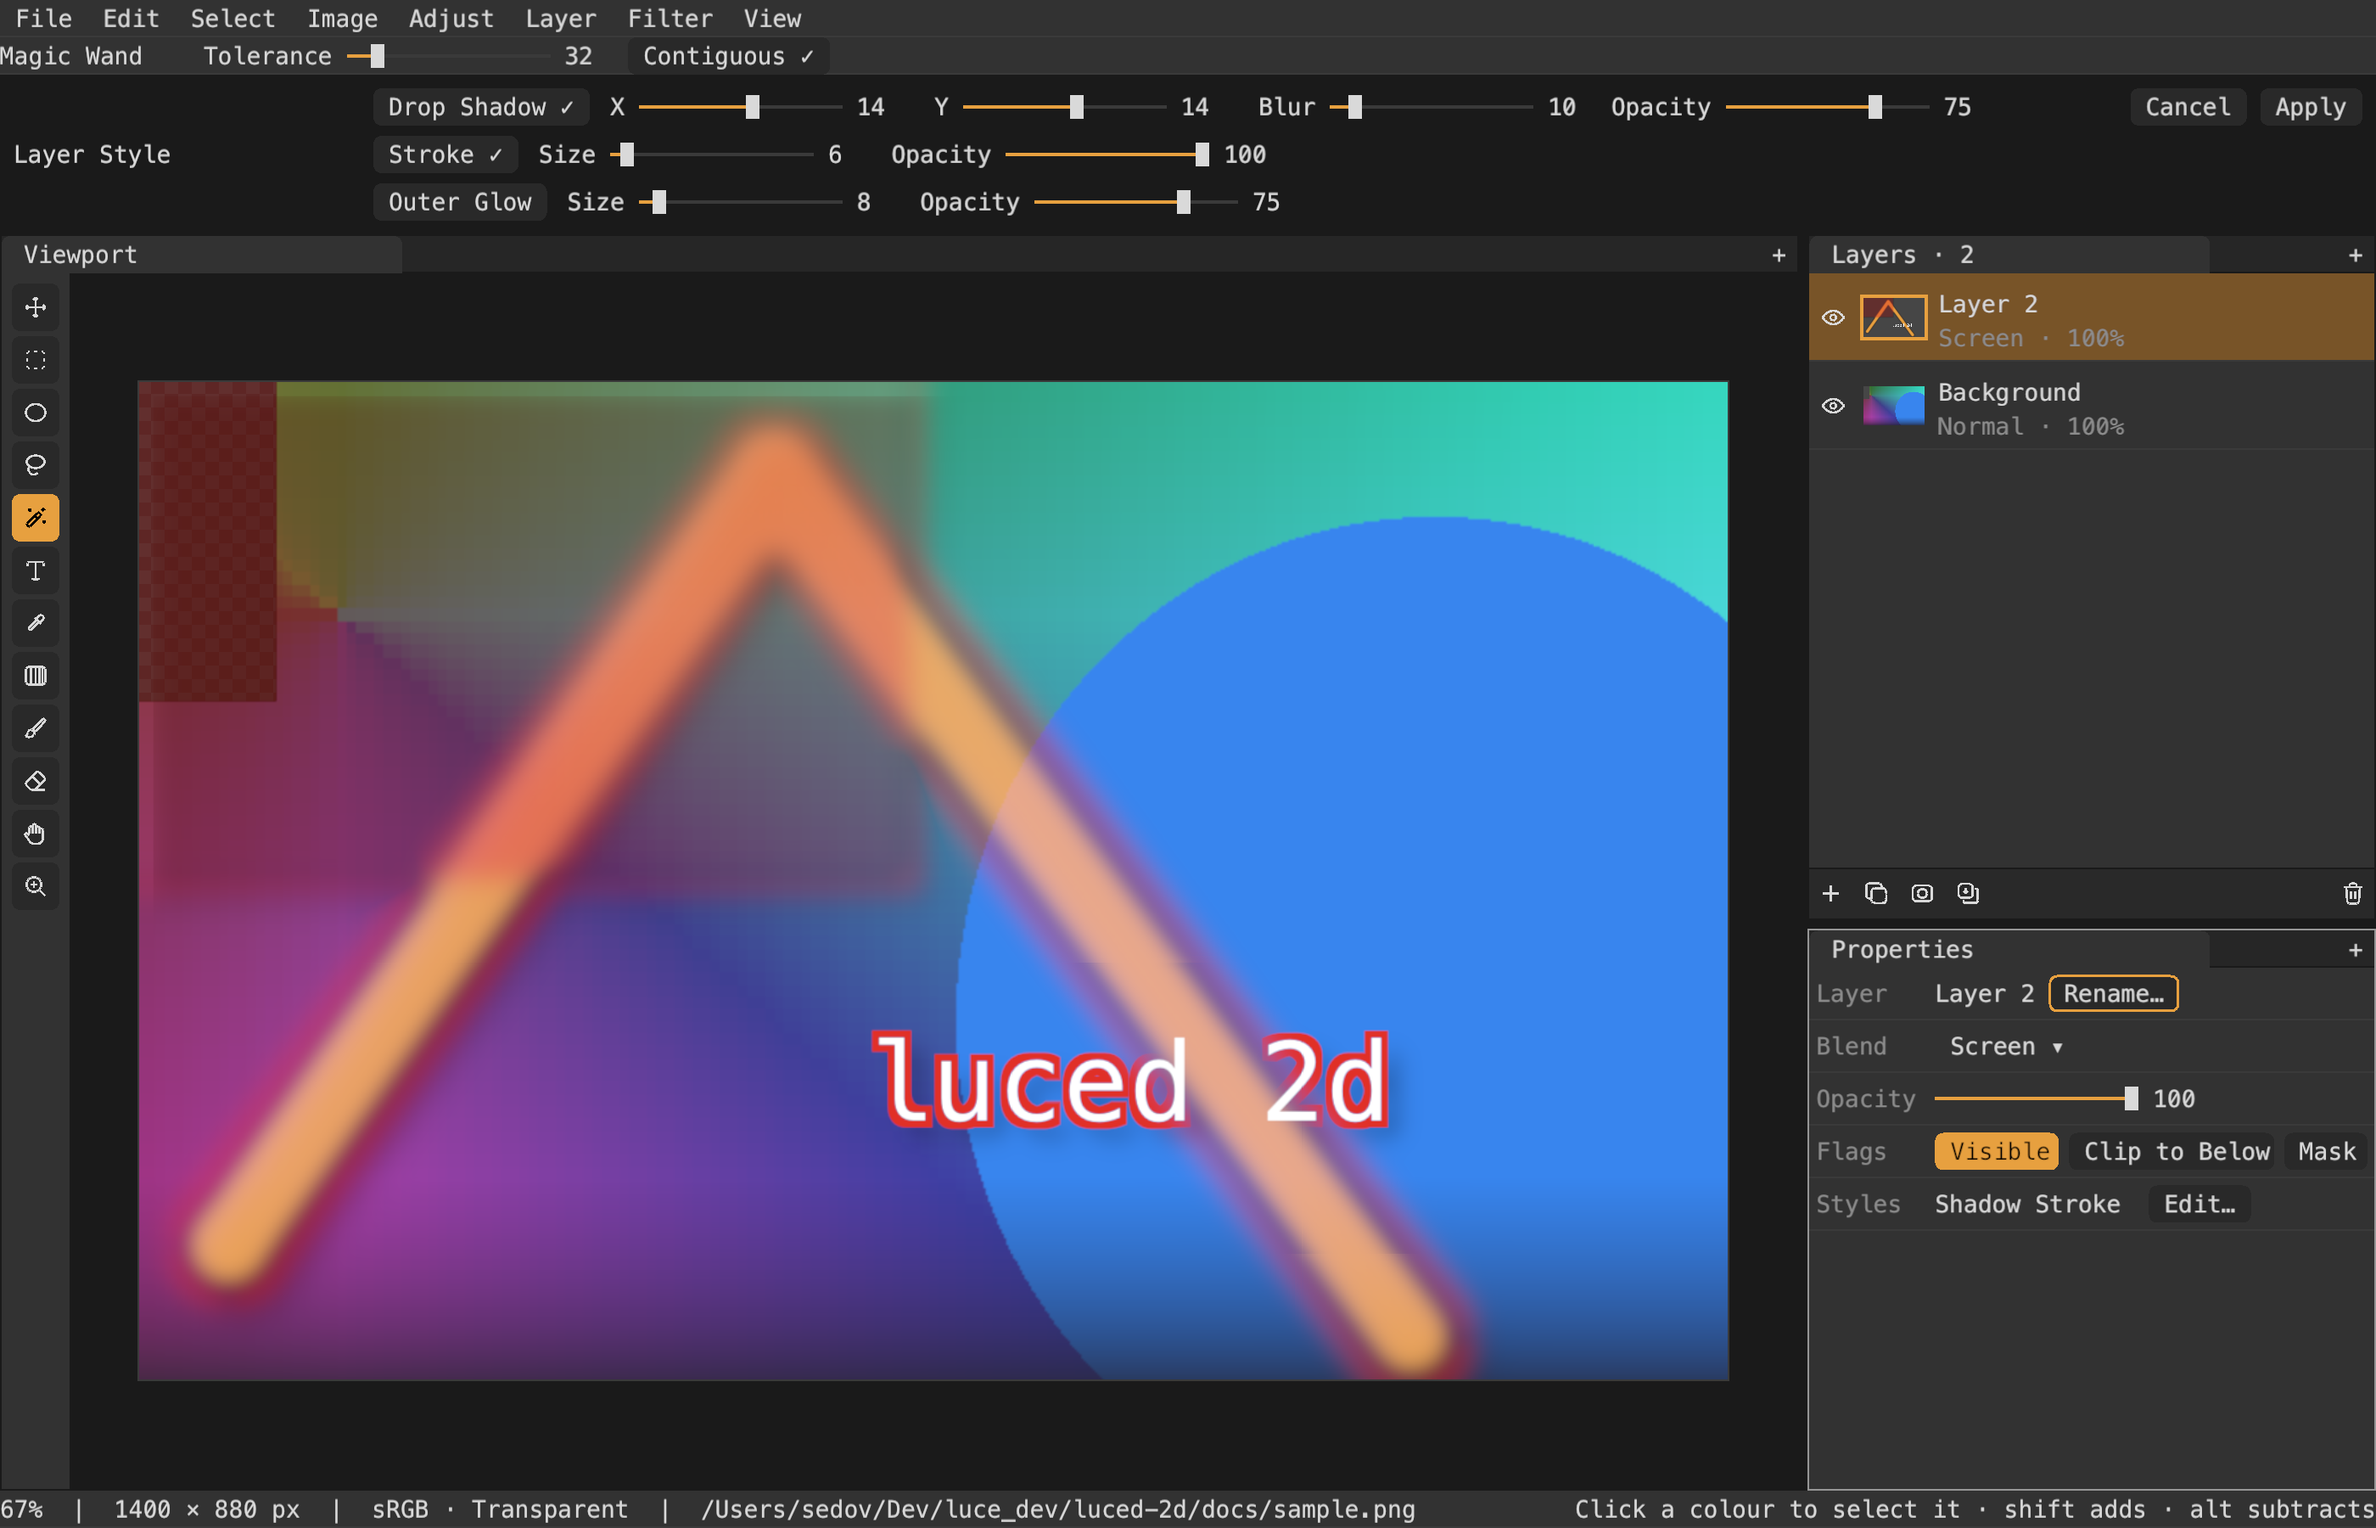
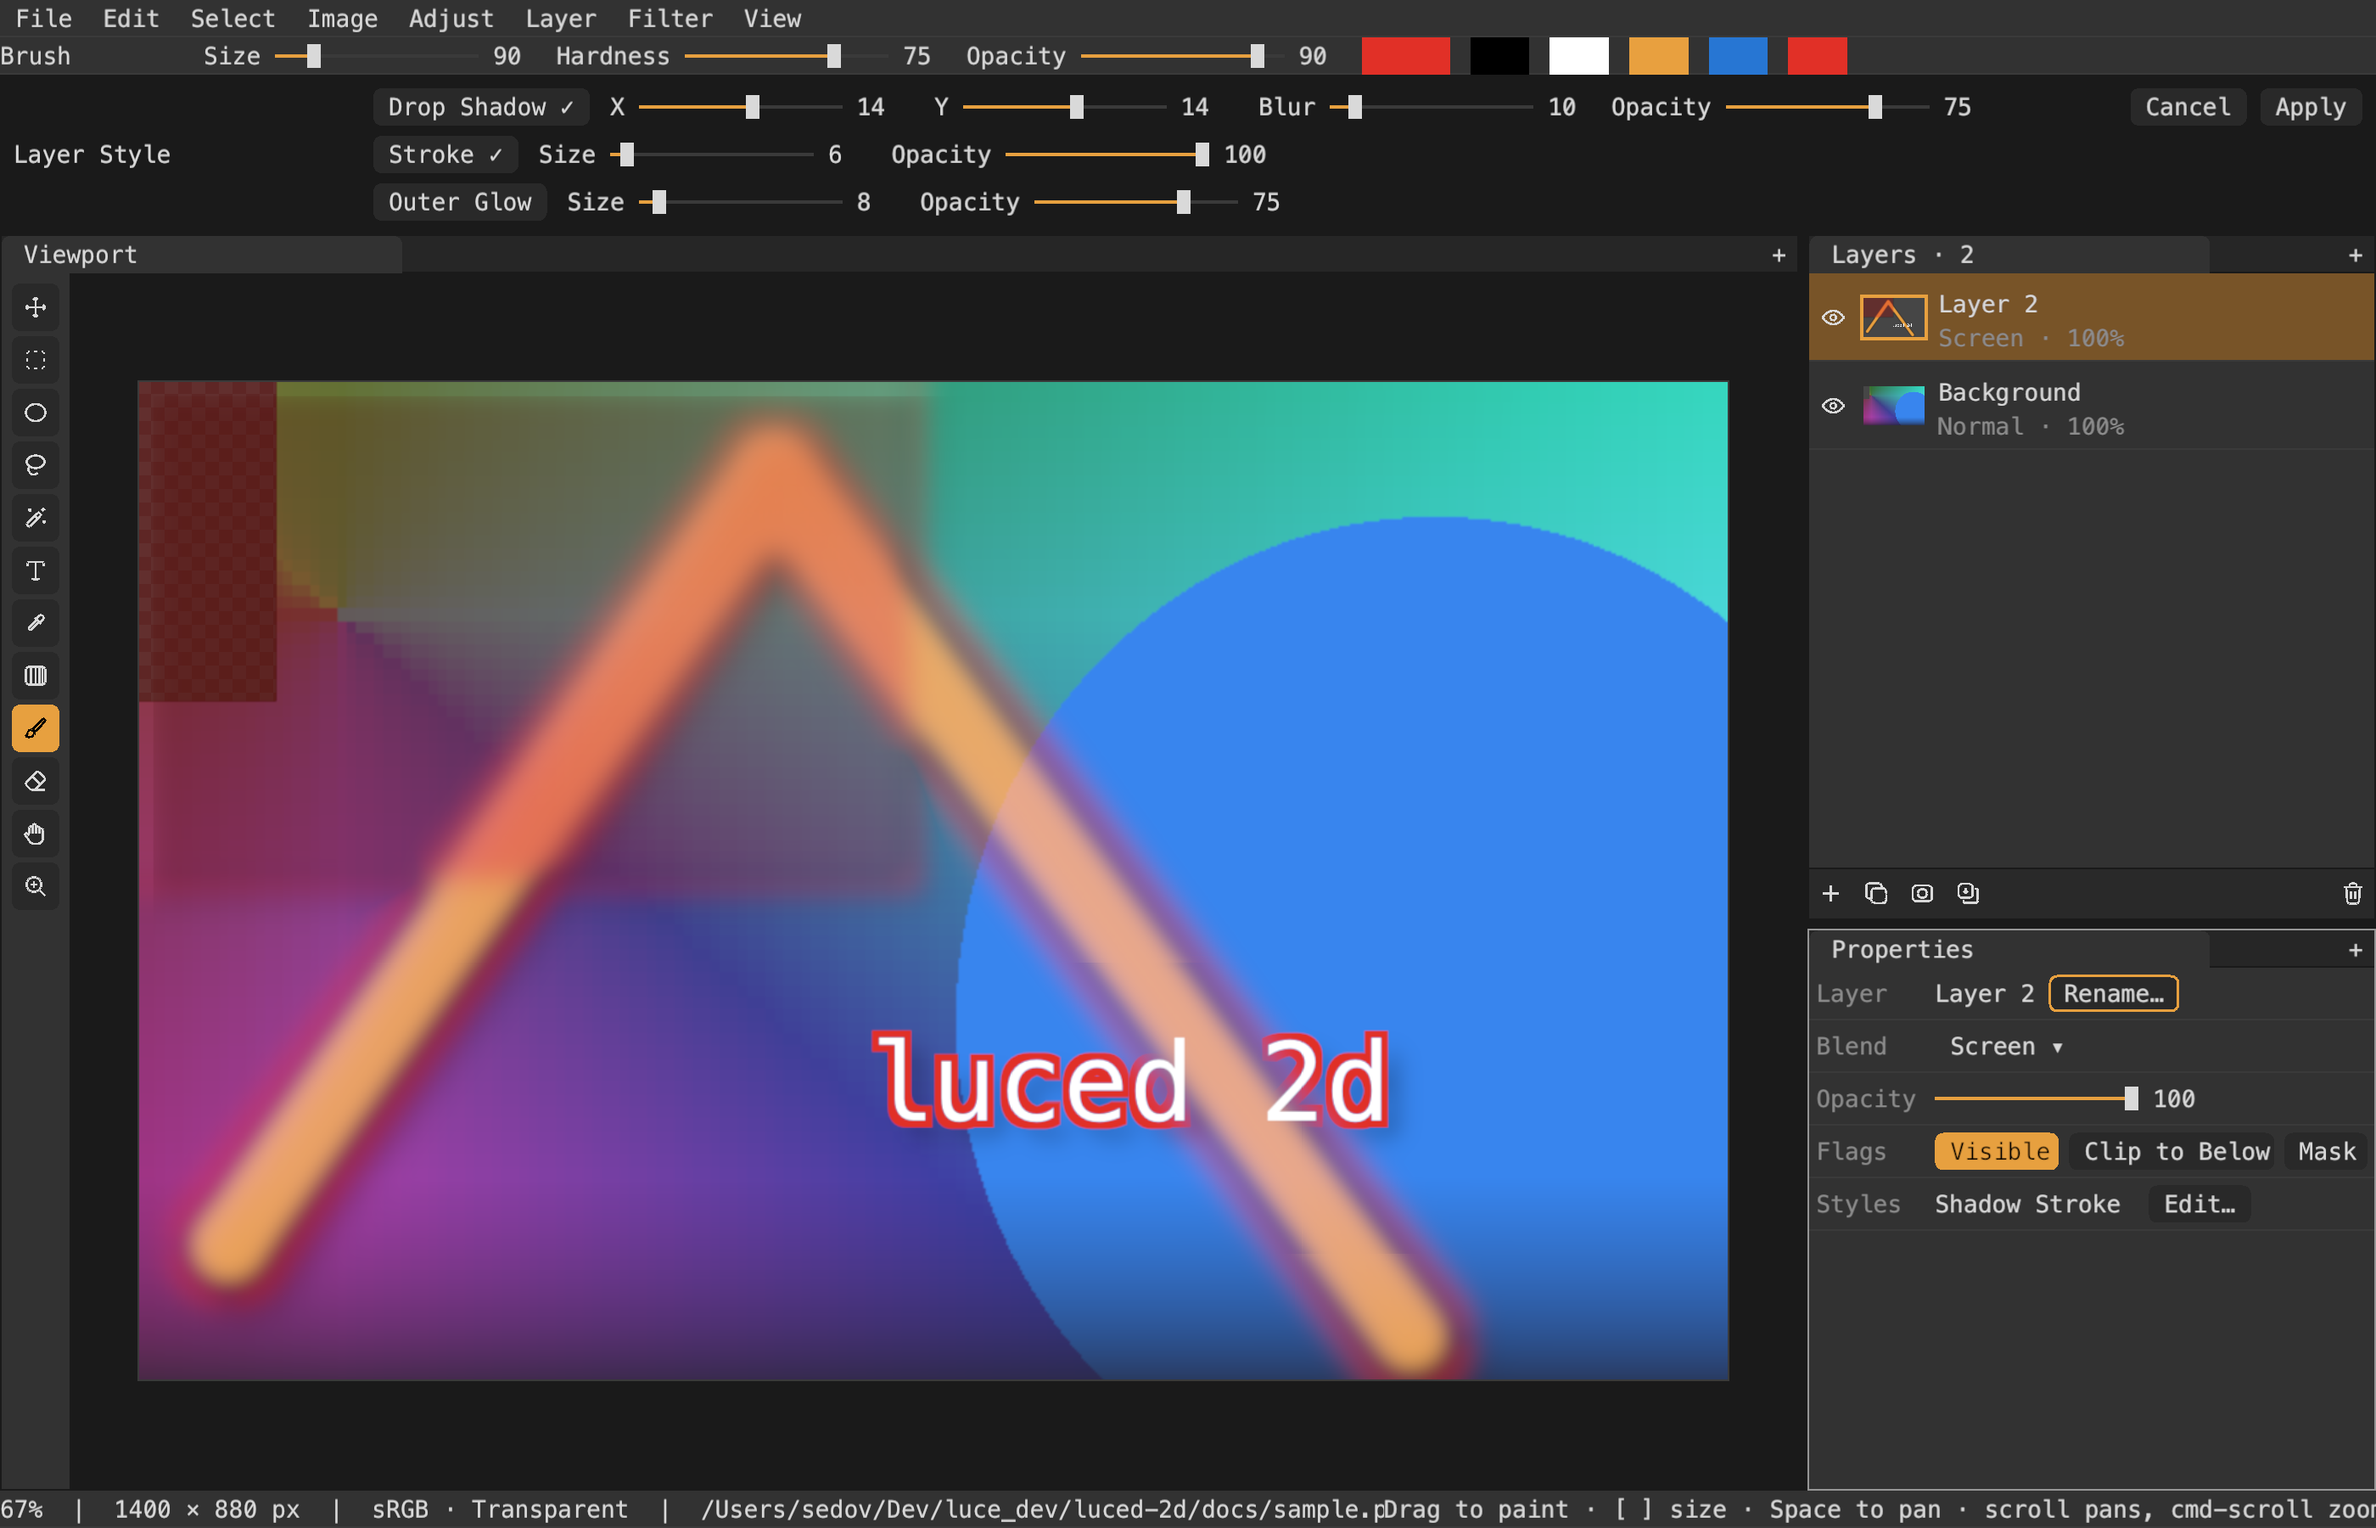
Foreground colour editor from the header swatch
Claude-Session: https://claude.ai/code/session_01KSvf935cywg8wGYHPcyZf9

diff --git a/tools/preview.py b/tools/preview.py
@@ -123,6 +123,8 @@ pub func main(arguments: list[str]) -> int!:
             editor.workspace.select(1)
             editor.workspace.set_color(0.75, 0.03, 0.02)
             editor.panels.layer_style()
+            editor.workspace.choose_tool("brush")
+            editor.panels.refresh()
             editor.panels.toggle_style(0)
             editor.panels.adjust_sliders[10][0].set_value(14.0)
             editor.panels.adjust_sliders[10][1].set_value(14.0)

diff --git a/README.md b/README.md
@@ -33,6 +33,8 @@ the order of work are in [docs/DESIGN.md](docs/DESIGN.md).
 - Eyedropper (`I`): click to pick the flattened colour as the foreground.
 - Text tool (`T`): click, type, and the text is set into the layer's pixels
   in the foreground colour at the chosen size.
+- A foreground colour swatch in the tool header opens a colour editor (RGB
+  sliders and hex), beside quick swatches.
 - Brush and eraser (`B`, `E`, `[` `]` for size) painted on the GPU with soft
   edges and no dab artefacts; undo and redo of strokes.
 - Pan with two-finger scroll, hand tool (`H`) or space-drag; zoom about the
